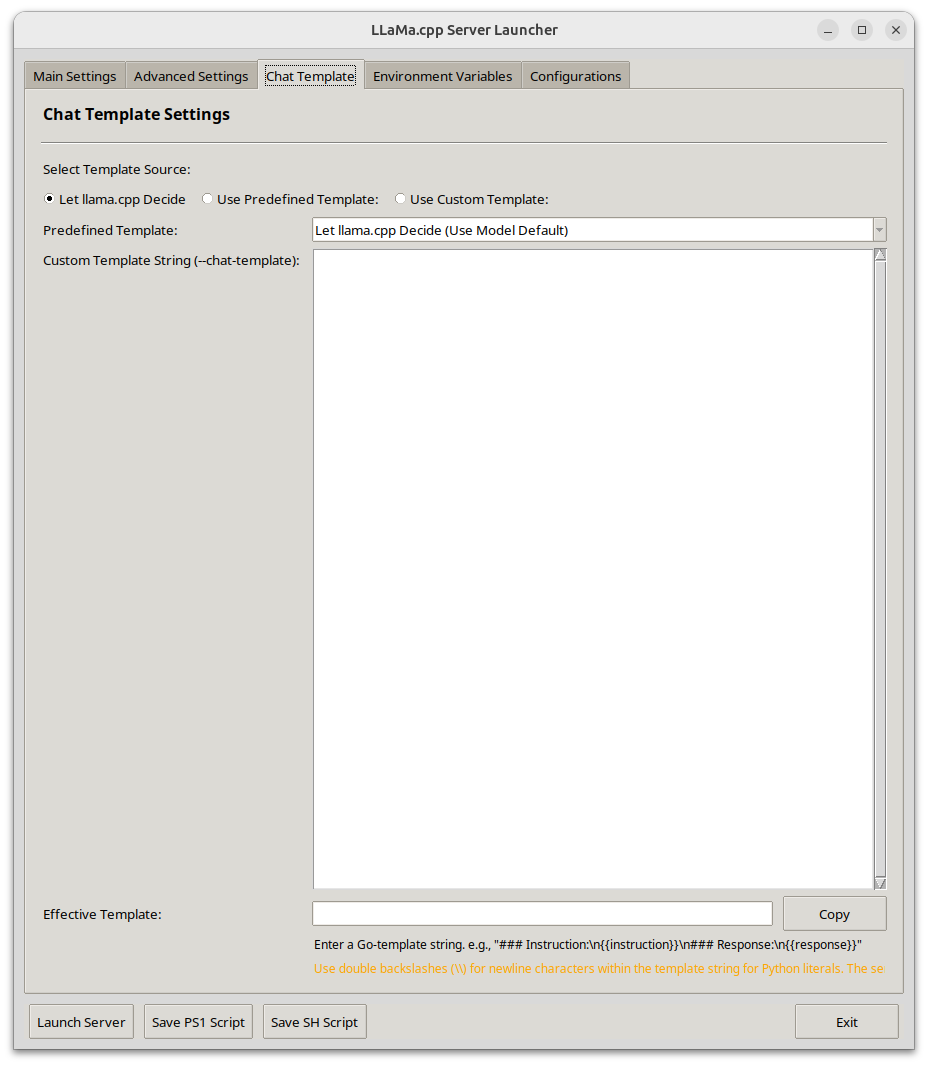
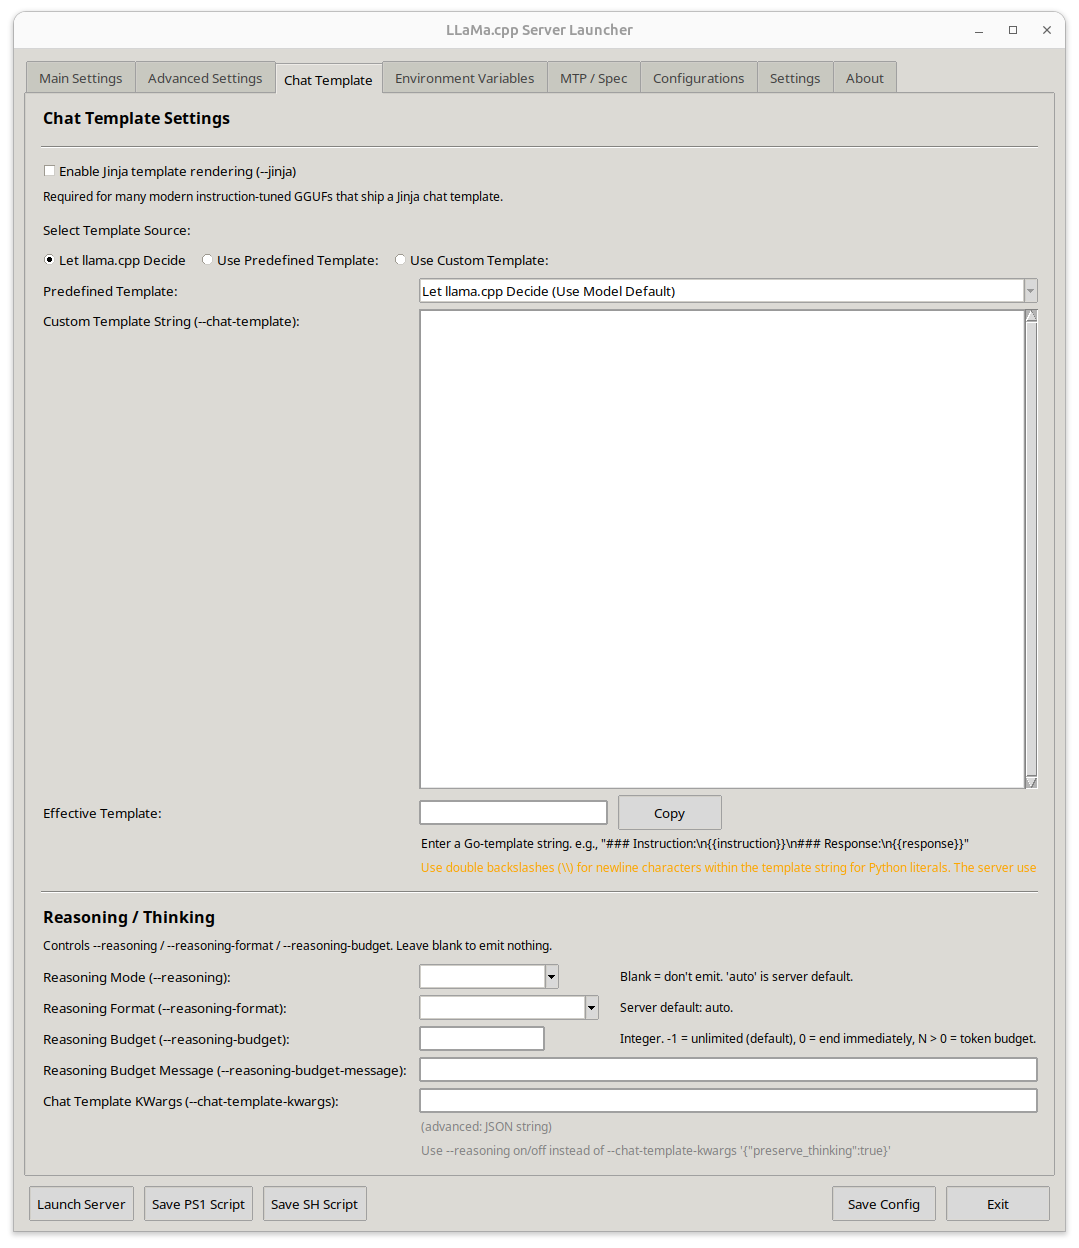
update images and readme

Changed region(s): [[0.0, 0.0, 1.0, 0.9906], [0.875, 0.0, 1.0, 0.0619]]

diff --git a/Readme.md b/Readme.md
@@ -11,9 +11,11 @@ This python script provides a comprehensive graphical interface for `llama.cpp a
 *   **Intuitive GUI:** Easy-to-use Tkinter interface with tabbed sections for:
     *   Main Settings (paths, model selection, basic parameters)
     *   Advanced Settings (GPU, memory, cache, performance, generation)
-    *   Chat Templates (select predefined, use model default, or provide custom)
+    *   Chat Template (select predefined, use model default, custom Jinja, plus reasoning / thinking controls)
     *   Environment Variables (manage CUDA and custom variables)
+    *   MTP / Speculative Decoding (draft model picker, cross-backend draft controls)
     *   Configurations (save/load/import/export launch setups)
+    *   Settings (theme, fonts, Windows high-DPI scaling)
 
 <details>
 <summary><h3>📸 View Advanced Settings Screenshot</h3></summary>
@@ -26,12 +28,14 @@ This python script provides a comprehensive graphical interface for `llama.cpp a
     *   **Model Management:** Scan directories for GGUF models, automatic model analysis (layers, architecture, size) with fallbacks, manual model info entry.
     *   **Vision/mmproj Handling:** Automatic `mmproj` detection, with an `mmproj` dropdown shown when multiple projector files are found for the selected model.
     *   **Core Parameters:** Threads (main & batch), context size, batch sizes (prompt & ubatch), sampling (temperature, min_p, seed).
-    *   **GPU Offloading:** GPU layers, tensor split (with VRAM-based recommendations), main GPU selection, Flash Attention toggle.
-    *   **Memory & Cache:** KV cache types (K & V), mmap, mlock, no KV offload.
+    *   **GPU Offloading:** GPU layers (with override), tensor split (with VRAM-based recommendations), user-orderable GPU list, main GPU selection, Flash Attention toggle.
+    *   **MoE Offload:** `--cpu-moe` / `--n-cpu-moe` controls for offloading expert layers to CPU on both backends.
+    *   **Context Fit:** `--fit` (auto-size context to available VRAM) and `--parallel` slot configuration.
+    *   **Memory & Cache:** KV cache types (K & V, including Q6_K), mmap, mlock, no KV offload.
     *   **Network:** Host IP and port configuration.
     *   **Generation:** Ignore EOS, n_predict (max tokens).
     *   **Custom Arguments:** Pass any additional `llama.cpp` server parameters.
-    *   **ik_llama Support:** Added support for ik_lamma with seperate parameters tab (6/15/2025)
+    *   **ik_llama Support:** Dedicated parameters tab for ik_llama-specific options.
     <details>
     <summary><h3>📸 View ik_llama Screenshot</h3></summary>
 
@@ -55,6 +59,22 @@ This python script provides a comprehensive graphical interface for `llama.cpp a
     *   Load predefined chat templates from `config/chat_templates.json`.
     *   Option to let `llama.cpp` decide the template based on model metadata.
     *   Provide your own custom Jinja2 template string.
+    *   `--jinja` toggle for Jinja template rendering (required by many modern instruction-tuned GGUFs).
+    *   **Reasoning / Thinking controls:** `--reasoning` (on / off / auto), `--reasoning-format` (none / deepseek / deepseek-legacy / auto), `--reasoning-budget`, `--reasoning-budget-message`, and advanced `--chat-template-kwargs` passthrough.
+
+<details>
+<summary><h3>📸 View MTP / Speculative Decoding Screenshot</h3></summary>
+
+![MTP / Speculative Decoding](images/mtp-spec.png)
+
+</details>
+
+*   **MTP / Speculative Decoding:**
+    *   Enable speculative decoding with cross-backend support (llama.cpp and ik_llama).
+    *   Speculative type selector (e.g., `draft-simple`, `draft-mtp`) with sensible default prefill per type.
+    *   Common draft controls: `n-max`, `n-min`, `p-min`, `p-split`, plus a one-click **Reset to defaults**.
+    *   Draft model GGUF picker with smart draft GPU controls (`-ngld`, per-device `-devd` selection, draft K/V cache types, `--spec-draft-cpu-moe` / `n-cpu-moe`).
+    *   MTP enforces `--parallel 1` automatically; optional `--no-mmproj` for MTP GGUFs that embed an unused vision projector.
 
 <details>
 <summary><h3>📸 View Environment Variables Screenshot</h3></summary>
@@ -86,11 +106,21 @@ This python script provides a comprehensive graphical interface for `llama.cpp a
 *   **Dependency Awareness:**
     *   Checks for optional but recommended dependencies for GPU detection and model information
 
+## 🆕 Recent Features
+
+*   **May 2026** — MTP / Speculative Decoding tab with full cross-backend support: draft GGUF picker, spec-type-aware default prefill, smart draft GPU controls, and auto `--parallel 1` for MTP. Reasoning / Thinking controls added to the Chat Template tab (`--reasoning`, `--reasoning-format`, `--reasoning-budget`, `--chat-template-kwargs`) plus a `--jinja` toggle.
+*   **April 2026** — Settings tab (theme/font controls, Windows high-DPI); user-orderable GPU list and `mmproj` selector dropdown; modular project layout (`modules/`, `config/`, `launchers/`); automated test suite + CI workflow.
+*   **January 2026** — `--fit` (auto-fit context to VRAM) and `--parallel` slot options; improved GGUF parser.
+*   **December 2025** — GPU layer override; Flash Attention updated for newest llama.cpp API; `--cpu-moe` works with ik_llama.
+*   **August 2025** — MoE offload options (`--cpu-moe`, llama.cpp PR 15077); `mmproj` command-line wiring; checkbox to toggle `mmproj` scanning for faster directory loads.
+*   **July 2025** — Q6_K KV cache option; model search box and configuration name/handling improvements.
+*   **June 2025** — ik_llama backend with dedicated parameters tab.
+
 ## 📋 Dependencies
 
 ### Required
-*   **Python 3.7+** with tkinter support (typically included with Python)
-*   **llama.cpp** built with server support (`llama-server and ik_llama` executable)
+*   **Python 3.10+** with tkinter support (typically included with Python). CI tests on 3.10 / 3.11 / 3.12.
+*   **llama.cpp** or **ik_llama** built with server support (`llama-server` executable from either backend)
 *   **requests** - Required for version checking and updates
     *   Install with: `pip install requests`
 
@@ -99,10 +129,6 @@ This python script provides a comprehensive graphical interface for `llama.cpp a
     *   Install in your virtual environment: `pip install torch`
     *   Without PyTorch, you can still manually configure GPU settings
     *   Enables automatic CUDA device detection and system resource information
-*   **llama-cpp-python** - **Optional fallback for GGUF model analysis**
-    *   Install in your virtual environment: `pip install llama-cpp-python`
-    *   Provides enhanced model analysis when llama.cpp tools are unavailable
-    *   The launcher works without it using built-in GGUF parsing and llama.cpp tools
 *   **psutil** - **Optional for enhanced system information**
     *   Provides detailed CPU and RAM information across platforms
     *   Install with: `pip install psutil`
@@ -117,7 +143,7 @@ source venv/bin/activate  # On Windows: venv\Scripts\activate
 pip install -r requirements.txt
 
 # Option 2: Install dependencies individually
-pip install requests torch llama-cpp-python psutil
+pip install requests torch psutil
 ```
 
 ## 🛠 Installation & Setup
@@ -173,7 +199,7 @@ make -j$(nproc)
 
 ### 4. Configure the Launcher
 1. Run the launcher: `python llamacpp-server-launcher.py`
-2. In the **Main** tab, set the **"llama.cpp Directory"** to your llama.cpp build folder
+2. In the **Main** tab, set the **"LLaMa.cpp Root Directory"** (or **"ik_llama Root Directory"** when the ik_llama backend is selected) to your build folder
 3. The launcher will automatically find the `llama-server` executable
 
 &nbsp;
